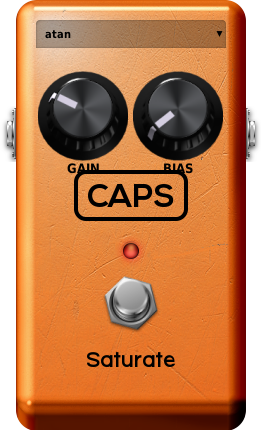
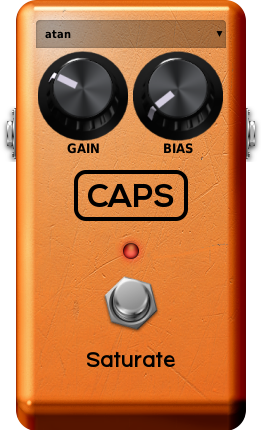
Fix saturate screenshot

Changed region(s): [[0.1226, 0.1209, 0.8582, 0.4233]]

diff --git a/plugins/mod-caps-Saturate.lv2/modgui/stylesheet-c-saturate.css b/plugins/mod-caps-Saturate.lv2/modgui/stylesheet-c-saturate.css
@@ -159,10 +159,13 @@
 /* = KNOBS
 ================================================ */
 .mod-pedal-boxy{{{cns}}} .mod-control-group {
-    margin:20px;
+    margin:20px !important;
     position:relative;
     text-align:center;
     z-index:30;
+}
+.mod-pedal-boxy{{{cns}}} .top {
+    margin-top:0px !important;
 }
 
 .mod-pedal-boxy{{{cns}}} .mod-control-group .mod-knob {
@@ -190,13 +193,14 @@
 .mod-pedal-boxy{{{cns}}}.mod-one-knob .mod-control-group .mod-knob .mod-knob-image {
     background-image:url(/resources/knobs/boxy/boxy.png{{{ns}}});
     background-repeat:no-repeat;
-    background-size:auto 100px;
-    height:100px;
-    width:100px;
+    background-size:auto 98px;
+    height:98px;
+    width:98px;
     margin:0 auto;
 }
 .mod-pedal-boxy{{{cns}}}.mod-one-knob .mod-control-group .mod-knob > span.mod-knob-title {
     font-size:15px;
+    height:15px;
 }
 .mod-pedal-boxy{{{cns}}}.mod-one-knob .mod-control-group .mod-knob {
     height:115px;
@@ -261,8 +265,13 @@
     z-index:35;
 }
 
-.mod-pedal-boxy{{{cns}}}.mod-three-knobs .mod-enumerated-group {
+.mod-pedal-boxy{{{cns}}}.mod-three-knobs .mod-enumerated-group,
+.mod-pedal-boxy{{{cns}}}.mod-four-knobs .mod-enumerated-group {
     margin-bottom:5px !important;
+}
+
+.mod-pedal-boxy{{{cns}}}.mod-four-knobs .mod-enumerated-group {
+    width:250px;
 }
 
 .mod-pedal-boxy{{{cns}}} .mod-enumerated {
